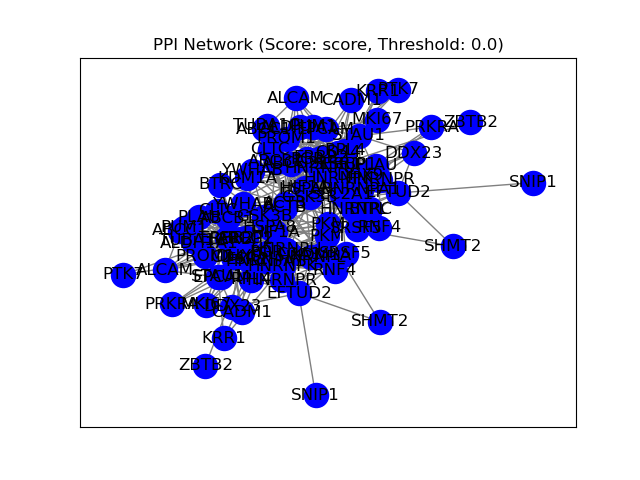
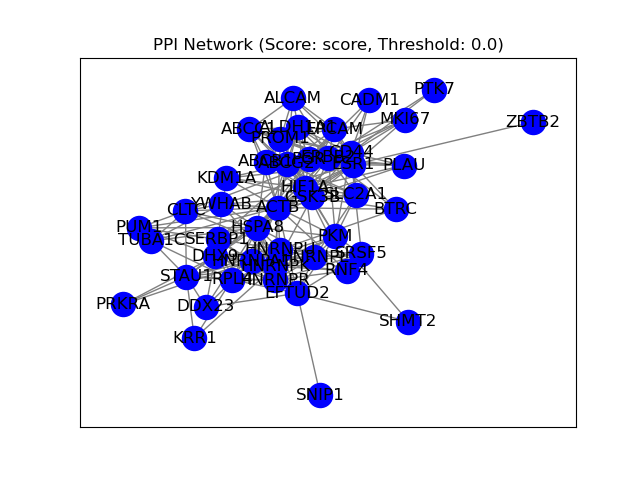
Plots with plotly

Changed region(s): [[0.1562, 0.1562, 0.875, 0.8125], [0.4375, 0.6875, 0.5312, 0.8438]]

diff --git a/utils/api/string_api.py b/utils/api/string_api.py
@@ -2,7 +2,7 @@ from io import StringIO
 from time import sleep
 import networkx as nx
 import matplotlib.pyplot as plt
-
+import plotly.graph_objects as go
 import pandas as pd
 import requests
 
@@ -34,6 +34,11 @@ def get_ppi_encoder(chosen_genes: list[str], score: str = 'escore', threshold: f
 
     # visualize network after filtering
     visualize_ppi(ppi, score=score, threshold=0.4)
+
+
+    ppi = ppi[ppi[score] >= 0.7]
+    visualize_ppi(ppi, score=score, threshold=0.7)
+
    
     #ppi[['src', 'dst']] = ppi[['preferredName_A', 'preferredName_B']].map(lambda x: gene_encoder[x])
     ppi[['src', 'dst']] = ppi[['preferredName_A', 'preferredName_B']].applymap(lambda x: gene_encoder[x]) #different versions of pandas
@@ -148,33 +153,148 @@ def get_network_image(gene_list: list[str], min_score: float = 0.7):
 
 
 
-def visualize_ppi(ppi, score: str = 'escore', threshold: float = 0.0):
-    """Visualize PPI network using networkx instead of STRING API.
-    """
-    # Create a new directed graph from edge list
-    #print edge attributes
-    
+# def visualize_ppi(ppi, score='escore', threshold=0.0):
+#     # Create a new directed graph from edge list
+#     G = nx.from_pandas_edgelist(ppi, 'preferredName_A', 'preferredName_B', [score])
 
+#     # Get positions for the nodes in G
+#     pos = nx.spring_layout(G)
+
+#     # Create Edges
+#     edge_x = []
+#     edge_y = []
+#     for edge in G.edges():
+#         x0, y0 = pos[edge[0]]
+#         x1, y1 = pos[edge[1]]
+#         edge_x.extend([x0, x1, None])
+#         edge_y.extend([y0, y1, None])
+
+#     edge_trace = go.Scatter(
+#         x=edge_x, y=edge_y,
+#         line=dict(width=0.5, color='#888'),
+#         hoverinfo='none',
+#         mode='lines')
+
+#     # Create Nodes
+#     node_x = [pos[node][0] for node in G.nodes()]
+#     node_y = [pos[node][1] for node in G.nodes()]
+
+#     node_trace = go.Scatter(
+#         x=node_x, y=node_y,
+#         mode='markers',
+#         hoverinfo='text',
+#         marker=dict(
+#             showscale=True,
+#             colorscale='YlGnBu',
+#             reversescale=True,
+#             color=[],
+#             size=10,
+#             colorbar=dict(
+#                 thickness=15,
+#                 title='Node Connections',
+#                 xanchor='left',
+#                 titleside='right'
+#             ),
+#             line_width=2))
+    
+   
+
+#     node_adjacencies = []
+#     node_text = []
+#     for node, adjacencies in enumerate(G.adjacency()):
+#         node_adjacencies.append(len(adjacencies[1]))
+#         node_text.append(f'{adjacencies[0]}, # of connections: {len(adjacencies[1])}')
+
+#     node_trace.marker.color = node_adjacencies
+#     node_trace.text = node_text
+
+#     # Create Figure
+#     fig = go.Figure(data=[edge_trace, node_trace],
+#                     layout=go.Layout(
+#                         title=f'PPI Network (Score: {score}, Threshold: {threshold})',
+#                         titlefont_size=16,
+#                         showlegend=False,
+#                         hovermode='closest',
+#                         margin=dict(b=20, l=5, r=5, t=40),
+#                         annotations=[
+#                             dict(
+#                                 text="Python code: <a href='https://plotly.com/ipython-notebooks/network-graphs/'> https://plotly.com/ipython-notebooks/network-graphs/</a>",
+#                                 showarrow=False,
+#                                 xref="paper", yref="paper",
+#                                 x=0.005, y=-0.002)
+#                         ],
+#                         xaxis=dict(showgrid=False, zeroline=False, showticklabels=False),
+#                         yaxis=dict(showgrid=False, zeroline=False, showticklabels=False))
+#                     )
+
+#     fig.show()
+
+
+def visualize_ppi(ppi, score='escore', threshold=0.0):
+    # Create a new directed graph from edge list
     G = nx.from_pandas_edgelist(ppi, 'preferredName_A', 'preferredName_B', [score])
 
-
-    # You can choose different layouts for your graph
+    # Get positions for the nodes in G
     pos = nx.spring_layout(G)
 
-    # Draw nodes (color by degree)
-    nodes = nx.draw_networkx_nodes(G, pos, node_color='blue')
+    # Create Edges
+    edge_x = []
+    edge_y = []
+    for edge in G.edges():
+        x0, y0 = pos[edge[0]]
+        x1, y1 = pos[edge[1]]
+        edge_x.extend([x0, x1, None])
+        edge_y.extend([y0, y1, None])
 
-    # Draw edges (color by weight)
-    edges = nx.draw_networkx_edges(G, pos, edge_color='grey')
+    edge_trace = go.Scatter(
+        x=edge_x, y=edge_y,
+        line=dict(width=0.5, color='#888'),
+        hoverinfo='none',
+        mode='lines')
 
-    # Draw labels
-    labels = nx.draw_networkx_labels(G, pos)
+    # Create Nodes
+    node_x = [pos[node][0] for node in G.nodes()]
+    node_y = [pos[node][1] for node in G.nodes()]
 
-    # Display
-    plt.title(f'PPI Network (Score: {score}, Threshold: {threshold})')
-    # save image
-    plt.savefig(f'PPI Network (Score: {score}, Threshold: {threshold}).png')
-    plt.show()
+    node_trace = go.Scatter(
+        x=node_x, y=node_y,
+        mode='markers',
+        hoverinfo='text',
+        marker=dict(
+            showscale=True,
+            colorscale='YlGnBu',
+            reversescale=True,
+            color=[],
+            size=10,
+            colorbar=dict(
+                thickness=15,
+                title='Node Connections',
+                xanchor='left',
+                titleside='right'
+            ),
+            line_width=2))
+
+    # Create Node Labels
+    node_labels = go.Scatter(
+        x=node_x,
+        y=node_y,
+        mode='text',
+        text=list(G.nodes()),
+        textposition='top center')
+
+    # Create Figure
+    fig = go.Figure(data=[edge_trace, node_trace, node_labels],
+                    layout=go.Layout(
+                        title=f'PPI Network (Score: {score}, Threshold: {threshold})',
+                        titlefont_size=16,
+                        showlegend=False,
+                        hovermode='closest',
+                        margin=dict(b=20, l=5, r=5, t=40),
+                        xaxis=dict(showgrid=False, zeroline=False, showticklabels=False),
+                        yaxis=dict(showgrid=False, zeroline=False, showticklabels=False))
+                    )
+
+    fig.show()
 
 
 # all_genes =  ['ESR1', 'EFTUD2', 'HSPA8', 'STAU1', 'SHMT2', 'ACTB', 'GSK3B', 'YWHAB', 'UBXN6', 'PRKRA', 'BTRC', 'DDX23', 'SSR1', 'TUBA1C', 'SNIP1', 'SRSF5', 'ERBB2', 'MKI67', 'PGR', 'PLAU',
